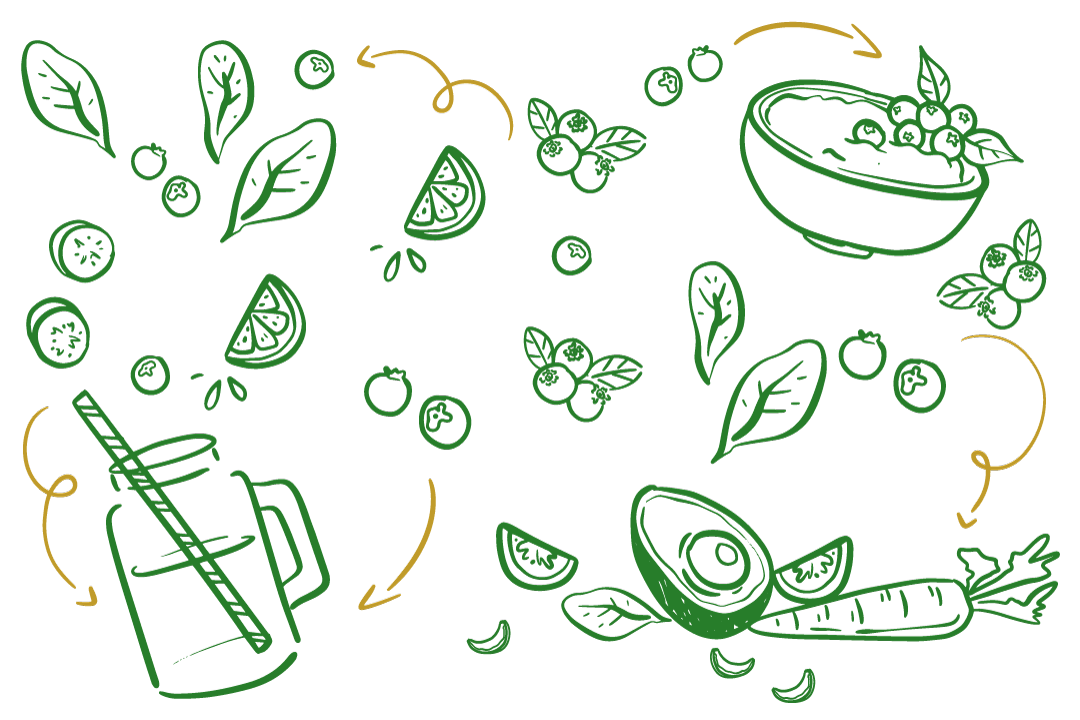
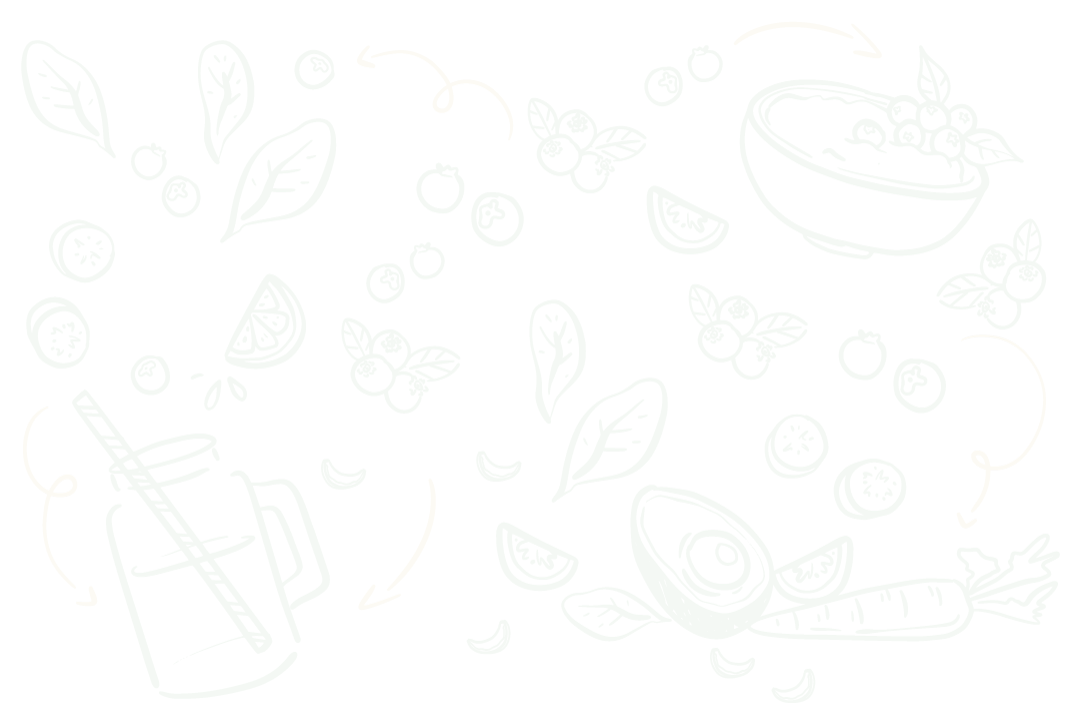
home page transparent background added. custom background maded

diff --git a/src/pages/Home/HealthyFood/HealthyFood.jsx b/src/pages/Home/HealthyFood/HealthyFood.jsx
@@ -3,8 +3,9 @@ import wellnessImage from "../../../assets/images/mealOfTheDay/lunch.png";
 
 const HealthyFood = () => {
     return (
-        <div className="bg-blue-gray-50 p-3">
-            <div className="bg-blue-gray-50 pb-10 max-w-screen-2xl mx-auto relative">
+        <div className="bg-light-green-50 p-3">
+            <div  className="bg-homePageBg">
+            <div className=" pb-10 max-w-screen-2xl mx-auto relative">
                 {/* section title */}
                 <h1 className="text-center pt-8 md:pt-20 mb-5 md:mb-14 md:text-5xl text-2xl font-semibold">
                     <span className="text-green-700">Healthy</span> Food
@@ -65,6 +66,7 @@ const HealthyFood = () => {
                     </div>
                 </div>
             </div>
+        </div>
         </div>
     );
 };

diff --git a/src/pages/Home/FeatureContent/FeatureContent.jsx b/src/pages/Home/FeatureContent/FeatureContent.jsx
@@ -3,9 +3,11 @@ import NutritionTips from "./NutritionTips";
 import Recipes from "./Recipes";
 
 
+
 const FeatureContent = () => {
     return (
-        <div className="bg-blue-gray-50 p-3 md:p-0">
+       <div className="bg-light-green-50 p-3 md:p-0">
+         <div className="bg-homePageBg">
             <h1 className="text-center pt-8 md:pt-20 md:text-5xl text-2xl font-semibold">Featured <span className="text-green-700">Content</span></h1>
             <div className="mt-5 md:mt-10 max-w-screen-2xl mx-auto grid md:grid-cols-3 grid-cols-1 gap-5 md:gap-14">
                 <MealOfTheDay />
@@ -13,6 +15,7 @@ const FeatureContent = () => {
                 <Recipes />
             </div>
         </div>
+       </div>
     );
 };
 

diff --git a/src/pages/Home/Banner/Banner.jsx b/src/pages/Home/Banner/Banner.jsx
@@ -16,7 +16,8 @@ export function Banner() {
     const backInUp = classNames("animate__animated", "animate__backInUp");
 
     return (
-        <div className="bg-light-green-300 md:p-0 p-3">
+        <div  className="bg-light-green-300 md:p-0 p-3">
+            <div className="bg-homePageBg">
             <div className="max-w-screen-2xl mx-auto ">
                 <div className="flex md:justify-between md:items-center md:h-[calc(100vh-72px)] flex-col-reverse md:flex-row">
                     <div className="flex-1">
@@ -52,6 +53,7 @@ export function Banner() {
                     </div>
                 </div>
             </div>
+        </div>
         </div>
     );
 }

diff --git a/src/pages/Home/VitaminProtin/VitaminProtein/VitaminProtein.jsx b/src/pages/Home/VitaminProtin/VitaminProtein/VitaminProtein.jsx
@@ -7,7 +7,8 @@ import Water from "../Water/Water";
 
 const VitaminProtein = () => {
     return (
-        <div className="bg-blue-gray-50 pb-5 md:pb-10">
+        <div className="bg-light-green-50 pb-5 md:pb-10">
+            <div className="bg-homePageBg">
             <div className="max-w-screen-2xl mx-auto">
                 <h1 className="text-center md:pt-20 mb-5 md:mb-14 md:text-5xl text-2xl font-semibold">
                     Essential <span className="text-green-700">Nutrients</span>
@@ -21,6 +22,7 @@ const VitaminProtein = () => {
                     <Water />
                 </div>
             </div>
+        </div>
         </div>
     );
 };

diff --git a/src/pages/Home/Home/Home.jsx b/src/pages/Home/Home/Home.jsx
@@ -5,7 +5,7 @@ import VitaminProtein from "../VitaminProtin/VitaminProtein/VitaminProtein";
 
 const Home = () => {
     return (
-        <div>
+        <div >
             <Banner />
             <FeatureContent />
             <HealthyFood />
